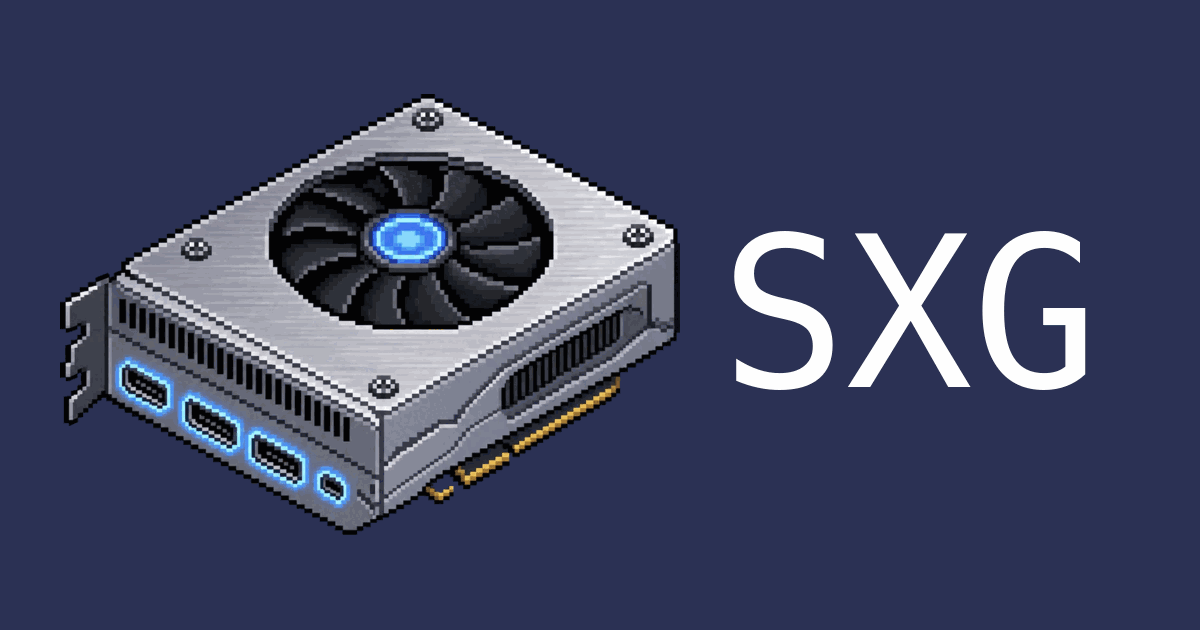
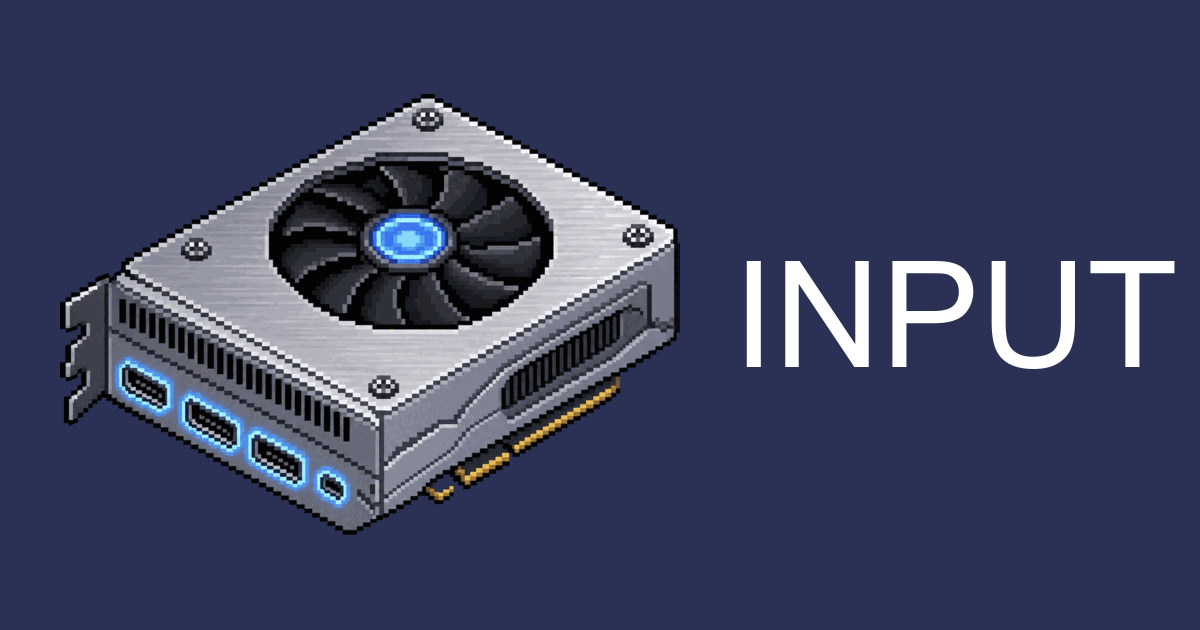
feat: rebrand marketplace as INPUT

Changed region(s): [[0.5858, 0.3619, 0.9867, 0.6333]]

diff --git a/index.html b/index.html
@@ -1,13 +1,13 @@
 <!doctype html>
-<html lang="en"><head><meta charset="UTF-8"><meta name="viewport" content="width=device-width, initial-scale=1"><meta name="theme-color" content="#0b1014"><title>SXG | AI API liquidity on BNB</title><meta name="description" content="List authorized AI API capacity, let buyers pay for measured usage, and settle seller revenue onchain through BNB"><link rel="canonical" href="https://sxg-ai-api-marketplace.vercel.app/"><link rel="icon" href="/favicon.ico" sizes="any"><link rel="icon" type="image/png" sizes="32x32" href="/brand/favicon-32.png"><link rel="apple-touch-icon" href="/brand/apple-touch-icon.png"><link rel="manifest" href="/site.webmanifest"><meta property="og:type" content="website"><meta property="og:site_name" content="SXG"><meta property="og:title" content="SXG | AI API liquidity on BNB"><meta property="og:locale" content="en_US"><meta property="og:description" content="List authorized AI API capacity, let buyers pay for measured usage, and settle seller revenue onchain through BNB"><meta property="og:url" content="https://sxg-ai-api-marketplace.vercel.app/"><meta property="og:image" content="https://sxg-ai-api-marketplace.vercel.app/brand/og.png"><meta property="og:image:type" content="image/png"><meta property="og:image:width" content="1200"><meta property="og:image:height" content="630"><meta property="og:image:alt" content="A pixel art graphics card next to the letters SXG"><meta name="twitter:card" content="summary_large_image"><meta name="twitter:title" content="SXG | AI API liquidity on BNB"><meta name="twitter:description" content="List authorized AI API capacity, let buyers pay for measured usage, and settle seller revenue onchain through BNB"><meta name="twitter:image" content="https://sxg-ai-api-marketplace.vercel.app/brand/og.png"><meta name="twitter:image:alt" content="A pixel art graphics card next to the letters SXG"><link rel="stylesheet" href="./style.css?v=api-market-4"></head><body>
+<html lang="en"><head><meta charset="UTF-8"><meta name="viewport" content="width=device-width, initial-scale=1"><meta name="theme-color" content="#0b1014"><title>INPUT</title><meta name="description" content="List authorized AI API capacity, let buyers pay for measured usage, and settle seller revenue onchain through BNB"><link rel="icon" href="/favicon.ico?v=arcade-1" sizes="any"><link rel="icon" type="image/png" sizes="32x32" href="/brand/favicon-32.png?v=arcade-1"><link rel="apple-touch-icon" href="/brand/apple-touch-icon.png?v=arcade-1"><link rel="manifest" href="/site.webmanifest"><meta property="og:type" content="website"><meta property="og:site_name" content="INPUT"><meta property="og:title" content="INPUT | AI API liquidity on BNB"><meta property="og:locale" content="en_US"><meta property="og:description" content="List authorized AI API capacity, let buyers pay for measured usage, and settle seller revenue onchain through BNB"><meta property="og:image" content="/brand/og.png"><meta property="og:image:type" content="image/png"><meta property="og:image:width" content="1200"><meta property="og:image:height" content="630"><meta property="og:image:alt" content="A pixel art graphics card next to the word INPUT"><meta name="twitter:card" content="summary_large_image"><meta name="twitter:title" content="INPUT | AI API liquidity on BNB"><meta name="twitter:description" content="List authorized AI API capacity, let buyers pay for measured usage, and settle seller revenue onchain through BNB"><meta name="twitter:image" content="/brand/og.png"><meta name="twitter:image:alt" content="A pixel art graphics card next to the word INPUT"><link rel="stylesheet" href="./style.css?v=arcade-1"></head><body>
 <main id="experience" aria-label="Interactive AI API marketplace">
 <div id="viewport"></div><div class="shade"></div>
-<header><button id="home" aria-label="Return to the whole market"><img class="brand-logo" src="/brand/logo-120.png" alt="" width="34" height="24">SXG</button><div class="header-actions"><button id="money-button" aria-expanded="false" aria-controls="money-preview">API marketplace <span>↗</span></button><button id="info-button" aria-label="About this experience" aria-expanded="false">i</button><a id="docs-link" href="/docs">Docs</a><div id="wallet-control"><button id="wallet-button" aria-label="Connect BNB wallet" aria-expanded="false" aria-controls="wallet-popover" aria-haspopup="dialog"><span id="wallet-label">Connect BNB wallet</span></button><section id="wallet-popover" role="dialog" aria-labelledby="wallet-title" hidden><div class="wallet-heading"><span id="wallet-title">BNB WALLET</span><button id="wallet-close" aria-label="Close wallet menu">×</button></div><div id="wallet-choices"><p>Connect an EVM wallet to buy API usage or receive seller revenue</p><button data-wallet="injected"><span class="wallet-name"><b class="wallet-glyph">M</b>MetaMask</span><span>↗</span></button><button data-wallet="browser"><span class="wallet-name"><b class="wallet-glyph">W</b>Browser wallet</span><span>↗</span></button><small>The wallet is only requested after you click. No transaction is sent during connection</small></div><div id="wallet-connected" hidden><span class="wallet-network"><i></i> BNB · CONNECTED</span><p id="wallet-address"></p><button id="wallet-disconnect">Disconnect <span>↗</span></button></div><p id="wallet-message" role="status" aria-live="polite"></p></section></div></div></header>
-<div id="about" hidden>SXG is an onchain market for authorized AI API capacity. Sellers connect provider access through an encrypted broker; buyers pay for measured token, image, video or audio usage<br><br>Raw API keys must never be exposed to buyers or stored in the browser<br>Scroll to explore the provider network. Drag to orbit</div>
+<header><button id="home" aria-label="Return to the whole market"><img class="brand-logo" src="/brand/logo-120.png?v=arcade-1" alt="" width="40" height="40">INPUT</button><div class="header-actions"><button id="money-button" aria-expanded="false" aria-controls="money-preview">API marketplace <span>↗</span></button><button id="info-button" aria-label="About this experience" aria-expanded="false">i</button><a id="docs-link" href="/docs">Docs</a><a id="x-link" href="https://x.com/inputBNB" target="_blank" rel="noopener noreferrer" aria-label="INPUT on X"><svg viewBox="0 0 24 24" aria-hidden="true"><path d="M18.2 2H22l-8.3 9.5L23.5 22h-7.7l-6-7.8L3 22H-.8l8.9-10.2L-1.3 2h7.9l5.4 7.1L18.2 2Zm-1.3 18h2.1L5.4 3.9H3.1L16.9 20Z"/></svg></a><div id="wallet-control"><button id="wallet-button" aria-label="Connect BNB wallet" aria-expanded="false" aria-controls="wallet-popover" aria-haspopup="dialog"><span id="wallet-label">Connect BNB wallet</span></button><section id="wallet-popover" role="dialog" aria-labelledby="wallet-title" hidden><div class="wallet-heading"><span id="wallet-title">BNB WALLET</span><button id="wallet-close" aria-label="Close wallet menu">×</button></div><div id="wallet-choices"><p>Connect an EVM wallet to buy API usage or receive seller revenue</p><button data-wallet="injected"><span class="wallet-name"><b class="wallet-glyph">M</b>MetaMask</span><span>↗</span></button><button data-wallet="browser"><span class="wallet-name"><b class="wallet-glyph">W</b>Browser wallet</span><span>↗</span></button><small>The wallet is only requested after you click. No transaction is sent during connection</small></div><div id="wallet-connected" hidden><span class="wallet-network"><i></i> BNB · CONNECTED</span><p id="wallet-address"></p><button id="wallet-disconnect">Disconnect <span>↗</span></button></div><p id="wallet-message" role="status" aria-live="polite"></p></section></div></div></header>
+<div id="about" hidden>INPUT is an onchain market for authorized AI API capacity. Sellers connect provider access through an encrypted broker; buyers pay for measured token, image, video or audio usage<br><br>Raw API keys must never be exposed to buyers or stored in the browser<br>Scroll to explore the provider network. Drag to orbit</div>
 <div id="product-line"><strong>Turn API access into yield</strong><p>List authorized capacity from OpenAI, Anthropic, Gemini, xAI, DeepSeek, Mistral, Qwen, Seedance and more. Buyers pay per use; sellers settle revenue on BNB</p><p id="room-total"></p><button id="explore-notes">List your API capacity <span>↗</span></button></div>
 <button id="machine-income" hidden aria-label="Open API marketplace"><span id="income-asset"></span><strong id="income-amount">Open API market</strong><small>MARKET <b>↗</b></small></button>
 <section id="money-preview" role="dialog" aria-modal="false" aria-labelledby="note-title" hidden>
-<div class="note-top"><span id="note-title">SXG / AI API MARKET</span><small>BNB</small><button id="close-money" aria-label="Close marketplace">×</button></div>
+<div class="note-top"><span id="note-title">INPUT / AI API MARKET</span><small>BNB</small><button id="close-money" aria-label="Close marketplace">×</button></div>
 <button id="inspect-source" class="note-source"><span class="status-dot"></span><span id="money-asset"></span><span>Inspect route ↗</span></button>
 <div id="service-panel"><p>Loading API marketplace…</p></div>
 </section>
@@ -15,6 +15,6 @@
 <div id="gpu-tip" aria-hidden="true"></div>
 <div id="gpu-picker" hidden aria-label="Choose an API route"><button data-gpu="0">01</button><button data-gpu="1">02</button><button data-gpu="2">03</button><button data-gpu="3">04</button><button data-gpu="4">05</button><button data-gpu="5">06</button><button data-gpu="6">07</button><button data-gpu="7">08</button></div>
 <footer><button id="gpu-button" aria-label="Choose an API route" aria-expanded="false"><svg viewBox="0 0 24 24"><rect x="6" y="6" width="12" height="12" rx="1"/><path d="M9 2v4m6-4v4M9 18v4m6-4v4M2 9h4m-4 6h4m12-6h4m-4 6h4"/></svg></button><div class="control-divider"></div><button id="tour-button" aria-label="Play market journey"><svg id="play-symbol" viewBox="0 0 24 24"><path d="m9 5 10 7-10 7z"/></svg></button><div class="depth-dots" aria-label="Explore the API routing stack"><button data-stage="-2" aria-label="Whole marketplace"></button><button data-stage="-1" class="active" aria-label="Provider network"></button><button data-stage="0" aria-label="Selected provider"></button><button data-stage="1" aria-label="API endpoint"></button><button data-stage="2" aria-label="Model layer"></button><button data-stage="3" aria-label="Token stream"></button><button data-stage="4" aria-label="Onchain settlement"></button></div><button id="explode-button" aria-label="Inspect API layers" aria-pressed="false" hidden><svg viewBox="0 0 24 24"><path d="m3 8 9-5 9 5-9 5zM3 12l9 5 9-5M3 16l9 5 9-5"/></svg></button><button id="reset-button" aria-label="Reset view"><svg viewBox="0 0 24 24"><path d="M5 9a8 8 0 1 1-1 7M4 3v7h7"/></svg></button></footer>
-<div id="progress"></div><div id="loading"><img class="brand-logo loading-logo" src="/brand/logo-120.png" alt="" width="68" height="48"></div>
+<div id="progress"></div><div id="loading"><img class="brand-logo loading-logo" src="/brand/logo-120.png?v=arcade-1" alt="" width="76" height="76"></div>
 <div id="fallback" hidden><h2>3D rendering is unavailable</h2><p>Enable WebGL and hardware acceleration, then reload</p><button onclick="location.reload()">Reload</button></div>
 </main><script type="importmap">{"imports":{"three":"/vendor/three/three.module.js","three/addons/":"/vendor/three/addons/"}}</script><script type="module" src="./main.js?v=api-market-4"></script></body></html>

diff --git a/docs/index.html b/docs/index.html
@@ -1,14 +1,14 @@
 <!doctype html>
-<html lang="en"><head><meta charset="UTF-8"><meta name="viewport" content="width=device-width,initial-scale=1"><meta name="theme-color" content="#0b1014"><title>SXG Docs | AI API liquidity on BNB</title><meta name="description" content="How SXG turns authorized AI API capacity into metered onchain revenue"><link rel="icon" href="/favicon.ico"><link rel="stylesheet" href="/docs.css"></head><body>
-<header class="top"><a class="brand" href="/"><img src="/brand/logo-120.png" alt="" width="40" height="28">SXG</a><nav><a class="on" href="/docs">Docs</a><a class="hide" href="#architecture">Architecture</a><a class="app" href="/">Open market</a></nav></header>
+<html lang="en"><head><meta charset="UTF-8"><meta name="viewport" content="width=device-width,initial-scale=1"><meta name="theme-color" content="#0b1014"><title>INPUT Docs</title><meta name="description" content="How INPUT turns authorized AI API capacity into metered onchain revenue"><link rel="icon" href="/favicon.ico?v=arcade-1"><link rel="stylesheet" href="/docs.css?v=arcade-1"></head><body>
+<header class="top"><a class="brand" href="/"><img src="/brand/logo-120.png?v=arcade-1" alt="" width="44" height="44">INPUT</a><nav><a class="on" href="/docs">Docs</a><a class="hide" href="#architecture">Architecture</a><a href="https://x.com/inputBNB" target="_blank" rel="noopener noreferrer">X</a><a class="app" href="/">Open market</a></nav></header>
 <div class="wrap"><aside id="toc"><h4>Overview</h4><a href="#welcome" class="on">Welcome</a><a href="#providers">Providers</a><a href="#status">Current status</a><h4>Sellers</h4><a href="#sell">List capacity</a><a href="#keys">Key security</a><a href="#earnings">Revenue</a><h4>Buyers</h4><a href="#buy">Buy usage</a><a href="#metering">Metering</a><a href="#settlement">BNB settlement</a><h4>Protocol</h4><a href="#architecture">Architecture</a><a href="#rules">Provider rules</a><a href="#questions">Questions</a></aside><main>
-<section id="welcome"><p class="eyebrow">AI API liquidity</p><h1>Turn unused AI capacity into onchain revenue</h1><p class="lede">SXG is designed as a marketplace where authorized sellers connect AI provider capacity, buyers pay for measured usage, and revenue settles on BNB. Buyers never receive the seller's raw API key</p><div class="cards"><a href="#sell"><b>Sell capacity</b><span>Connect a provider route and define limits</span></a><a href="#buy"><b>Buy tokens</b><span>Choose a workload, budget and provider</span></a><a href="#keys"><b>Protect keys</b><span>Encrypt secrets outside the browser</span></a><a href="#settlement"><b>Settle on BNB</b><span>Pay sellers from verified usage receipts</span></a></div></section>
+<section id="welcome"><p class="eyebrow">AI API liquidity</p><h1>Turn unused AI capacity into onchain revenue</h1><p class="lede">INPUT is designed as a marketplace where authorized sellers connect AI provider capacity, buyers pay for measured usage, and revenue settles on BNB. Buyers never receive the seller's raw API key</p><div class="cards"><a href="#sell"><b>Sell capacity</b><span>Connect a provider route and define limits</span></a><a href="#buy"><b>Buy tokens</b><span>Choose a workload, budget and provider</span></a><a href="#keys"><b>Protect keys</b><span>Encrypt secrets outside the browser</span></a><a href="#settlement"><b>Settle on BNB</b><span>Pay sellers from verified usage receipts</span></a></div></section>
 <section id="providers"><p class="eyebrow">Provider network</p><h2>Supported interfaces</h2><p>The interface includes major text, reasoning, image, video and audio providers. Production activation must be reviewed provider by provider</p><div class="providers"><div><b>OpenAI</b><span>Text, image and audio</span></div><div><b>Anthropic</b><span>Text and reasoning</span></div><div><b>Google Gemini</b><span>Multimodal and video</span></div><div><b>xAI</b><span>Text and reasoning</span></div><div><b>DeepSeek</b><span>Text and reasoning</span></div><div><b>Mistral AI</b><span>Text and embeddings</span></div><div><b>Cohere</b><span>Text and reranking</span></div><div><b>Alibaba Qwen</b><span>Text and multimodal</span></div><div><b>ByteDance Seedance</b><span>Video generation</span></div><div><b>Stability AI</b><span>Image and video</span></div><div><b>ElevenLabs</b><span>Voice and audio</span></div><div><b>Replicate</b><span>Hosted model marketplace</span></div></div></section>
 <section id="status"><p class="eyebrow">Current build</p><h2>Frontend concept, not a live exchange</h2><div class="note"><strong>No secret or payment is stored by this local build</strong><p>The seller form clears submitted keys and fails closed because the secure vault, usage proxy, database and settlement contracts are not connected</p></div><p>The 3D interface, provider catalog, seller flow, buyer flow and explicit wallet connection work locally. Live routing requires a dedicated backend and contracts</p></section>
 <section id="sell"><p class="eyebrow">Sellers</p><h2>List capacity</h2><ol class="steps"><li><div><strong>Choose a provider</strong><p>Select the provider and workload you are authorized to route</p></div></li><li><div><strong>Set limits</strong><p>Define a price, daily spend ceiling, model allowlist and request limits</p></div></li><li><div><strong>Submit securely</strong><p>Send the key directly to a server-side encrypted vault over TLS. Never persist it in browser storage</p></div></li><li><div><strong>Receive usage revenue</strong><p>Verified usage receipts determine the seller balance available for BNB settlement</p></div></li></ol></section>
 <section id="keys"><p class="eyebrow">Sellers</p><h2>Key security</h2><ul><li>Encrypt secrets with a managed KMS or HSM and use envelope encryption</li><li>Never write raw keys to logs, analytics, client bundles, localStorage or onchain data</li><li>Use provider-specific spending caps, model allowlists, request limits and automatic revocation</li><li>Proxy every buyer request so buyers receive a marketplace route token, never the provider credential</li><li>Rotate or revoke a route after suspicious usage, provider rejection or seller withdrawal</li></ul></section>
 <section id="earnings"><p class="eyebrow">Sellers</p><h2>Revenue</h2><p>A production marketplace should calculate gross usage, provider cost, protocol fee and seller revenue separately. Sellers need a live ledger for each request and a clear dispute window before settlement</p></section>
-<section id="buy"><p class="eyebrow">Buyers</p><h2>Buy AI usage</h2><ol class="steps"><li><div><strong>Select a workload</strong><p>Text, image, video, voice, embeddings or another supported capability</p></div></li><li><div><strong>Set a maximum budget</strong><p>The route must stop before the approved limit is exceeded</p></div></li><li><div><strong>Receive a temporary route token</strong><p>The buyer calls SXG, not the seller's provider key</p></div></li><li><div><strong>Pay for measured usage</strong><p>Settlement uses signed receipts generated by the metering layer</p></div></li></ol></section>
+<section id="buy"><p class="eyebrow">Buyers</p><h2>Buy AI usage</h2><ol class="steps"><li><div><strong>Select a workload</strong><p>Text, image, video, voice, embeddings or another supported capability</p></div></li><li><div><strong>Set a maximum budget</strong><p>The route must stop before the approved limit is exceeded</p></div></li><li><div><strong>Receive a temporary route token</strong><p>The buyer calls INPUT, not the seller's provider key</p></div></li><li><div><strong>Pay for measured usage</strong><p>Settlement uses signed receipts generated by the metering layer</p></div></li></ol></section>
 <section id="metering"><p class="eyebrow">Buyers</p><h2>Metering</h2><table><tr><th>Workload</th><th>Possible unit</th></tr><tr><td>Text</td><td>Input and output tokens</td></tr><tr><td>Images</td><td>Generated image, resolution or compute step</td></tr><tr><td>Video</td><td>Generated second, resolution or job</td></tr><tr><td>Audio</td><td>Characters, seconds or generated minute</td></tr><tr><td>Embeddings</td><td>Input tokens or vector batch</td></tr></table><p>Each adapter must translate provider billing into a normalized receipt without pretending all providers use the same unit</p></section>
 <section id="settlement"><p class="eyebrow">Settlement</p><h2>BNB settlement</h2><p>A buyer can fund a bounded session or prepaid balance. The backend signs usage receipts, the contract releases only the verified amount, and unused funds return to the buyer. No contract is connected in this local build</p></section>
 <section id="architecture"><p class="eyebrow">Protocol</p><h2>Required architecture</h2><ol class="steps"><li><div><strong>Marketplace API</strong><p>Authentication, listings, budgets, route tokens and seller controls</p></div></li><li><div><strong>Encrypted key vault</strong><p>KMS-backed storage with isolated decrypt permission</p></div></li><li><div><strong>Provider adapters</strong><p>One adapter per provider for request validation, usage extraction and error handling</p></div></li><li><div><strong>Metering and receipts</strong><p>Immutable usage records signed before settlement</p></div></li><li><div><strong>BNB contracts</strong><p>Escrow, protocol fees, seller balances, withdrawals and dispute controls</p></div></li></ol></section>

diff --git a/docs.css b/docs.css
@@ -1,1 +1,1 @@
-:root{color-scheme:dark;--bg:#0b1014;--panel:#10171c;--line:#1e2a31;--ink:#e8ecee;--soft:#9aa7ae;--blue:#4c9cf0;--mono:'SFMono-Regular',Menlo,Consolas,monospace;--sans:-apple-system,BlinkMacSystemFont,'Helvetica Neue',Arial,sans-serif}*{box-sizing:border-box}html{scroll-behavior:smooth;scroll-padding-top:96px}body{margin:0;background:var(--bg);color:var(--ink);font:18px/1.65 var(--sans);-webkit-font-smoothing:antialiased}a{color:inherit}.top{position:sticky;top:0;z-index:5;height:72px;display:flex;align-items:center;justify-content:space-between;padding:0 32px;background:#0b1014e6;backdrop-filter:blur(14px);border-bottom:1px solid var(--line)}.brand{display:flex;align-items:center;gap:12px;text-decoration:none;font-weight:600;font-size:20px}.brand img{width:40px;height:28px;object-fit:contain}.top nav{display:flex;align-items:center;gap:28px}.top nav a{text-decoration:none;color:var(--soft)}.top nav a:hover,.top nav a.on{color:var(--ink)}.top nav a.on{box-shadow:0 2px 0 var(--blue)}.top .app{color:var(--ink);border:1px solid var(--blue);border-radius:4px;padding:7px 16px}.wrap{display:grid;grid-template-columns:300px minmax(0,1fr);max-width:1240px;margin:0 auto}aside{position:sticky;top:72px;height:calc(100vh - 72px);overflow:auto;padding:36px 28px 60px 32px;border-right:1px solid var(--line)}aside h4{margin:28px 0 8px}aside h4:first-child{margin-top:0}aside a{display:block;padding:5px 0 5px 16px;text-decoration:none;color:var(--soft);border-left:1px solid transparent}aside a:hover,aside a.on{color:var(--ink)}aside a.on{border-left-color:var(--blue)}main{padding:56px 64px 120px;max-width:900px}section{padding-bottom:56px;margin-bottom:56px;border-bottom:1px solid var(--line)}section:last-of-type{border-bottom:0}.eyebrow{color:var(--blue);margin:0 0 10px}h1{font-size:48px;line-height:1.1;font-weight:500;margin:0 0 22px}h2{font-size:32px;line-height:1.2;font-weight:500;margin:0 0 18px}.lede{font-size:22px;line-height:1.6;color:var(--soft)}p{margin:0 0 16px;color:#c7d0d4}strong{color:var(--ink)}ul{padding-left:22px;color:#c7d0d4}.cards,.providers{display:grid;grid-template-columns:1fr 1fr;border:1px solid var(--line);margin-top:30px}.cards a,.providers div{display:block;padding:22px 24px;text-decoration:none;border-right:1px solid var(--line);border-bottom:1px solid var(--line)}.cards a:nth-child(2n),.providers div:nth-child(2n){border-right:0}.cards a:nth-last-child(-n+2),.providers div:nth-last-child(-n+2){border-bottom:0}.cards b,.providers b{display:block;font-size:20px;font-weight:500}.cards span,.providers span{color:var(--soft)}.note{border:1px solid var(--line);border-left:2px solid var(--blue);background:var(--panel);padding:18px 22px;margin:24px 0}.steps{list-style:none;padding:0;counter-reset:s}.steps li{display:grid;grid-template-columns:52px 1fr;gap:18px;padding:20px 0;border-top:1px solid var(--line);counter-increment:s}.steps li:before{content:counter(s,decimal-leading-zero);width:44px;height:36px;display:grid;place-items:center;border:1px solid var(--line);font:18px var(--mono);color:var(--soft)}table{width:100%;border-collapse:collapse;margin:20px 0}td,th{text-align:left;padding:14px 16px 14px 0;border-bottom:1px solid var(--line);vertical-align:top}th{font-weight:500;color:var(--soft)}details{border-top:1px solid var(--line);padding:18px 0}details:last-child{border-bottom:1px solid var(--line)}summary{cursor:pointer;font-size:20px}.pager{display:flex;justify-content:space-between;margin-top:20px}@media(max-width:900px){.wrap{grid-template-columns:1fr}aside{display:none}main{padding:40px 20px 100px}.top{padding:0 16px}.top nav{gap:14px}.hide{display:none}h1{font-size:38px}.cards,.providers{grid-template-columns:1fr}.cards a,.providers div{border-right:0!important;border-bottom:1px solid var(--line)!important}.cards a:last-child,.providers div:last-child{border-bottom:0!important}}
+:root{color-scheme:dark;--bg:#0b1014;--panel:#10171c;--line:#1e2a31;--ink:#e8ecee;--soft:#9aa7ae;--blue:#4c9cf0;--mono:'SFMono-Regular',Menlo,Consolas,monospace;--sans:-apple-system,BlinkMacSystemFont,'Helvetica Neue',Arial,sans-serif}*{box-sizing:border-box}html{scroll-behavior:smooth;scroll-padding-top:96px}body{margin:0;background:var(--bg);color:var(--ink);font:18px/1.65 var(--sans);-webkit-font-smoothing:antialiased}a{color:inherit}.top{position:sticky;top:0;z-index:5;height:72px;display:flex;align-items:center;justify-content:space-between;padding:0 32px;background:#0b1014e6;backdrop-filter:blur(14px);border-bottom:1px solid var(--line)}.brand{display:flex;align-items:center;gap:12px;text-decoration:none;font-weight:600;font-size:20px}.brand img{width:44px;height:44px;object-fit:contain;image-rendering:pixelated}.top nav{display:flex;align-items:center;gap:28px}.top nav a{text-decoration:none;color:var(--soft)}.top nav a:hover,.top nav a.on{color:var(--ink)}.top nav a.on{box-shadow:0 2px 0 var(--blue)}.top .app{color:var(--ink);border:1px solid var(--blue);border-radius:4px;padding:7px 16px}.wrap{display:grid;grid-template-columns:300px minmax(0,1fr);max-width:1240px;margin:0 auto}aside{position:sticky;top:72px;height:calc(100vh - 72px);overflow:auto;padding:36px 28px 60px 32px;border-right:1px solid var(--line)}aside h4{margin:28px 0 8px}aside h4:first-child{margin-top:0}aside a{display:block;padding:5px 0 5px 16px;text-decoration:none;color:var(--soft);border-left:1px solid transparent}aside a:hover,aside a.on{color:var(--ink)}aside a.on{border-left-color:var(--blue)}main{padding:56px 64px 120px;max-width:900px}section{padding-bottom:56px;margin-bottom:56px;border-bottom:1px solid var(--line)}section:last-of-type{border-bottom:0}.eyebrow{color:var(--blue);margin:0 0 10px}h1{font-size:48px;line-height:1.1;font-weight:500;margin:0 0 22px}h2{font-size:32px;line-height:1.2;font-weight:500;margin:0 0 18px}.lede{font-size:22px;line-height:1.6;color:var(--soft)}p{margin:0 0 16px;color:#c7d0d4}strong{color:var(--ink)}ul{padding-left:22px;color:#c7d0d4}.cards,.providers{display:grid;grid-template-columns:1fr 1fr;border:1px solid var(--line);margin-top:30px}.cards a,.providers div{display:block;padding:22px 24px;text-decoration:none;border-right:1px solid var(--line);border-bottom:1px solid var(--line)}.cards a:nth-child(2n),.providers div:nth-child(2n){border-right:0}.cards a:nth-last-child(-n+2),.providers div:nth-last-child(-n+2){border-bottom:0}.cards b,.providers b{display:block;font-size:20px;font-weight:500}.cards span,.providers span{color:var(--soft)}.note{border:1px solid var(--line);border-left:2px solid var(--blue);background:var(--panel);padding:18px 22px;margin:24px 0}.steps{list-style:none;padding:0;counter-reset:s}.steps li{display:grid;grid-template-columns:52px 1fr;gap:18px;padding:20px 0;border-top:1px solid var(--line);counter-increment:s}.steps li:before{content:counter(s,decimal-leading-zero);width:44px;height:36px;display:grid;place-items:center;border:1px solid var(--line);font:18px var(--mono);color:var(--soft)}table{width:100%;border-collapse:collapse;margin:20px 0}td,th{text-align:left;padding:14px 16px 14px 0;border-bottom:1px solid var(--line);vertical-align:top}th{font-weight:500;color:var(--soft)}details{border-top:1px solid var(--line);padding:18px 0}details:last-child{border-bottom:1px solid var(--line)}summary{cursor:pointer;font-size:20px}.pager{display:flex;justify-content:space-between;margin-top:20px}@media(max-width:900px){.wrap{grid-template-columns:1fr}aside{display:none}main{padding:40px 20px 100px}.top{padding:0 16px}.top nav{gap:14px}.hide{display:none}h1{font-size:38px}.cards,.providers{grid-template-columns:1fr}.cards a,.providers div{border-right:0!important;border-bottom:1px solid var(--line)!important}.cards a:last-child,.providers div:last-child{border-bottom:0!important}}

diff --git a/style.css b/style.css
@@ -59,7 +59,7 @@ header{z-index:7}
 .vault-yield{font:28px/1.2 var(--mono);color:#e6efd9;margin:0 0 6px}.vault-yield span{font:18px Arial,sans-serif;color:#a9b9a3}
 #product-line>p{font-size:18px;line-height:1.45;max-width:520px}
 @media(max-width:600px){#product-line>p{font-size:18px;max-width:340px}}
-.brand-logo{display:block;width:34px;height:auto;image-rendering:pixelated}.loading-logo{width:68px;animation:breathe 1.4s ease-in-out infinite}@media(max-width:500px){.brand-logo{width:30px}}
+.brand-logo{display:block;width:40px;height:40px;object-fit:contain;image-rendering:pixelated}.loading-logo{width:76px;height:76px;animation:breathe 1.4s ease-in-out infinite}@media(max-width:500px){.brand-logo{width:34px;height:34px}}
 #x-link{width:34px;height:34px;display:grid;place-items:center;border:1px solid #a1afba36;border-radius:50%;color:#cdd8dc;pointer-events:auto;transition:color .2s,border-color .2s}#x-link:hover{color:#fff;border-color:#adbdc588}#x-link svg{width:15px;height:15px;fill:currentColor;stroke:none}@media(max-width:600px){#x-link{width:30px;height:30px}}
 .wallet-name{display:flex;align-items:center;gap:12px}.wallet-name img{width:28px;height:28px;border-radius:7px;flex:none}#docs-link{font:10px var(--mono);color:#e2e6dd;text-decoration:none;padding:8px 0;pointer-events:auto}#docs-link:hover{color:#fff}
 

diff --git a/main.js b/main.js
@@ -270,7 +270,7 @@ const heatsink=new THREE.Group(),hb=builder(heatsink);machine.add(heatsink);
 hb.box(0,.66,0,6.8,.12,5,0x637269);
 for(let i=0;i<44;i++)hb.box(-3.25+i*.15,1,0,.045,.62,4.8,palette.edge);
 hb.finish();heatsink.visible=false;
-const machineLabel=textPlate(machine,'SXG    /    API ROUTER 08',0,-.03,3.18,3,.24,'#bfcca9');machineLabel.rotation.x=-Math.PI/2;
+const machineLabel=textPlate(machine,'INPUT    /    API ROUTER 08',0,-.03,3.18,3,.24,'#bfcca9');machineLabel.rotation.x=-Math.PI/2;
 // 03 / Silicon die: nested parallel compute arrays and dense memory cells.
 const silicon=groups[2],sb=builder(silicon);
 sb.box(0,-.34,0,12,.55,10,palette.dark);sb.box(0,-.04,0,11.8,.055,9.8,palette.gold);sb.box(0,.02,0,11.55,.055,9.55,0x254036);

diff --git a/server.py b/server.py
@@ -28,5 +28,5 @@ class Handler(SimpleHTTPRequestHandler):
 
 if __name__ == "__main__":
     os.chdir(ROOT)
-    print("SXG mirror: http://127.0.0.1:4173/", flush=True)
+    print("INPUT local: http://127.0.0.1:4173/", flush=True)
     ThreadingHTTPServer(("127.0.0.1", 4173), Handler).serve_forever()

diff --git a/README.md b/README.md
@@ -1,7 +1,7 @@
-SXG AI API marketplace local build
+INPUT AI API marketplace local build
 
-Source visual baseline: https://sxg.systems/
-Reworked locally: October 3, 2026
+Source visual baseline archived before the INPUT rebrand
+Reworked locally: October 4, 2026
 
 Run locally:
   python server.py
